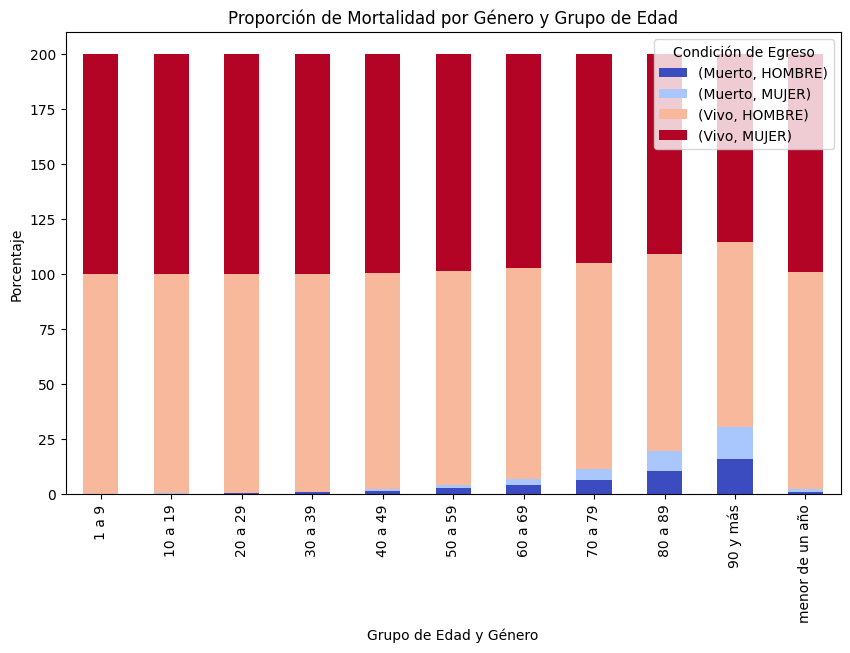
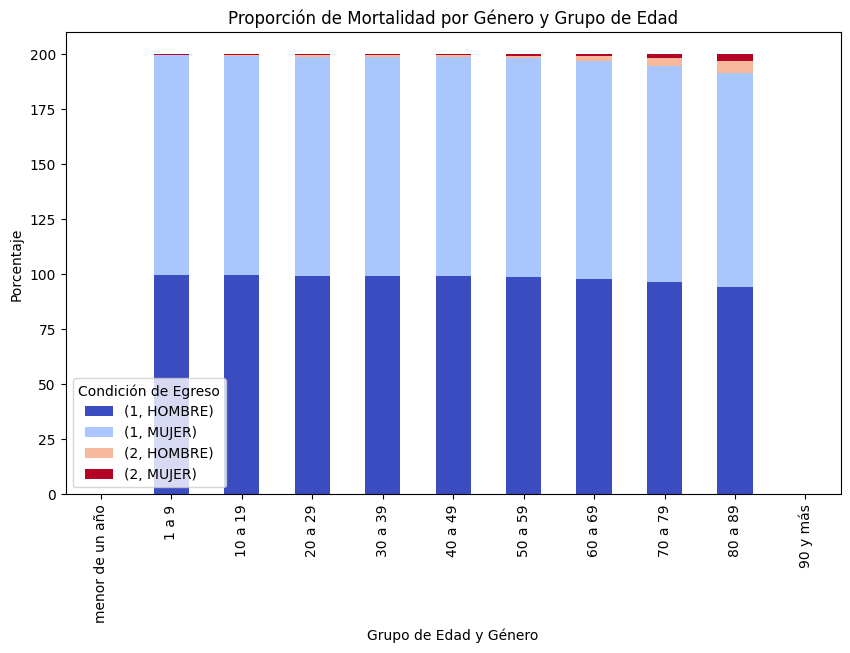
pagina web con img

diff --git a/index.html b/index.html
@@ -238,7 +238,7 @@
     </div>
     <div class="Preguntas">
         <h3><b>4)</b>¿Cuáles son las causas más comunes de ingreso hospitalario (causa interna) y cuál es la distribución de los pacientes vivos y fallecidos para cada una?</h3>
-        <p><br><strong> mas comunes de ingreso:</strong>
+        <p><br><strong> Causas mas comunes de ingreso:</strong>
 
             <br>Traumatismo intracraneal, no especificado es la causa más común con 170577 casos (96.74% de efectividad).
             Otras causas frecuentes incluyen fracturas (columna, fémur, etc.) y lesiones en el hombro.
@@ -278,12 +278,10 @@
             <p> Mortalidad por edad</p>      
         </a>
         <p><strong>Edad:</strong>
-            <br>La mortalidad es muy baja en niños de 1 a 9 años (0.18%-0.21%) y aumenta en menores de un año (1.10%). 
-            <br>En adultos jóvenes y de mediana edad, la mortalidad empieza a subir en el grupo de 30 a 39 años (0.35%) y continúa aumentando en los grupos de 40 a 59 años (hasta 2.05%).
-            <br>A partir de los 60 años, el aumento de la mortalidad es marcado: 3.55% en 60-69 años, 5.85% en 70-79 años, 9.80% en 80-89 años y 14.98% en mayores de 90 años. Conclusiones: La mortalidad aumenta con la edad, especialmente a partir de los 60 años, siendo más notable en adultos mayores. 
-            <br>Los menores de un año también presentan mayor vulnerabilidad. Las políticas de salud pública deben priorizar a los mayores de 60 años y a los menores de un año.</p>
-        <a href="img/mortalidad por edad.png" target="_blank">
-            <img src="img/mortalidad por edad.png" alt="Gráfico 4-12 años">
+            <br>Tendencias de mortalidad por edad: <br>La mortalidad aumenta con la edad, como se esperaba, y los más jóvenes tienen una probabilidad mucho más alta de sobrevivir en comparación con los más viejos.
+            <br>Impacto del sexo:<br> Aunque el sexo influye en la mortalidad, parece que el factor más importante es el grupo de edad, con una distinción entre hombres y mujeres en algunas categorías.</p>
+        <a href="img/matriz.png" target="_blank">
+            <img src="img/matriz.png" alt="Gráfico 4-12 años">
             <p>Mortalidad por genero</p>
         </a>
         <p><strong> Edad y genero:</strong>
@@ -325,6 +323,9 @@
             <img src="img/mortalidad por region.png" alt="Gráfico 4-12 años">
             <p>Mortalidad por region</p>
         </a>
+    </div>
+    <div>
+        <p><p>Para más información, visita el repositorio: <a href="https://github.com/siwikiwi/ATDC--imt2200" target="_blank">este sitio web</a>.</p></p>
     </div>
     <div class="imagenes3">
         <a href="img/Gracias.png" target="_blank">
